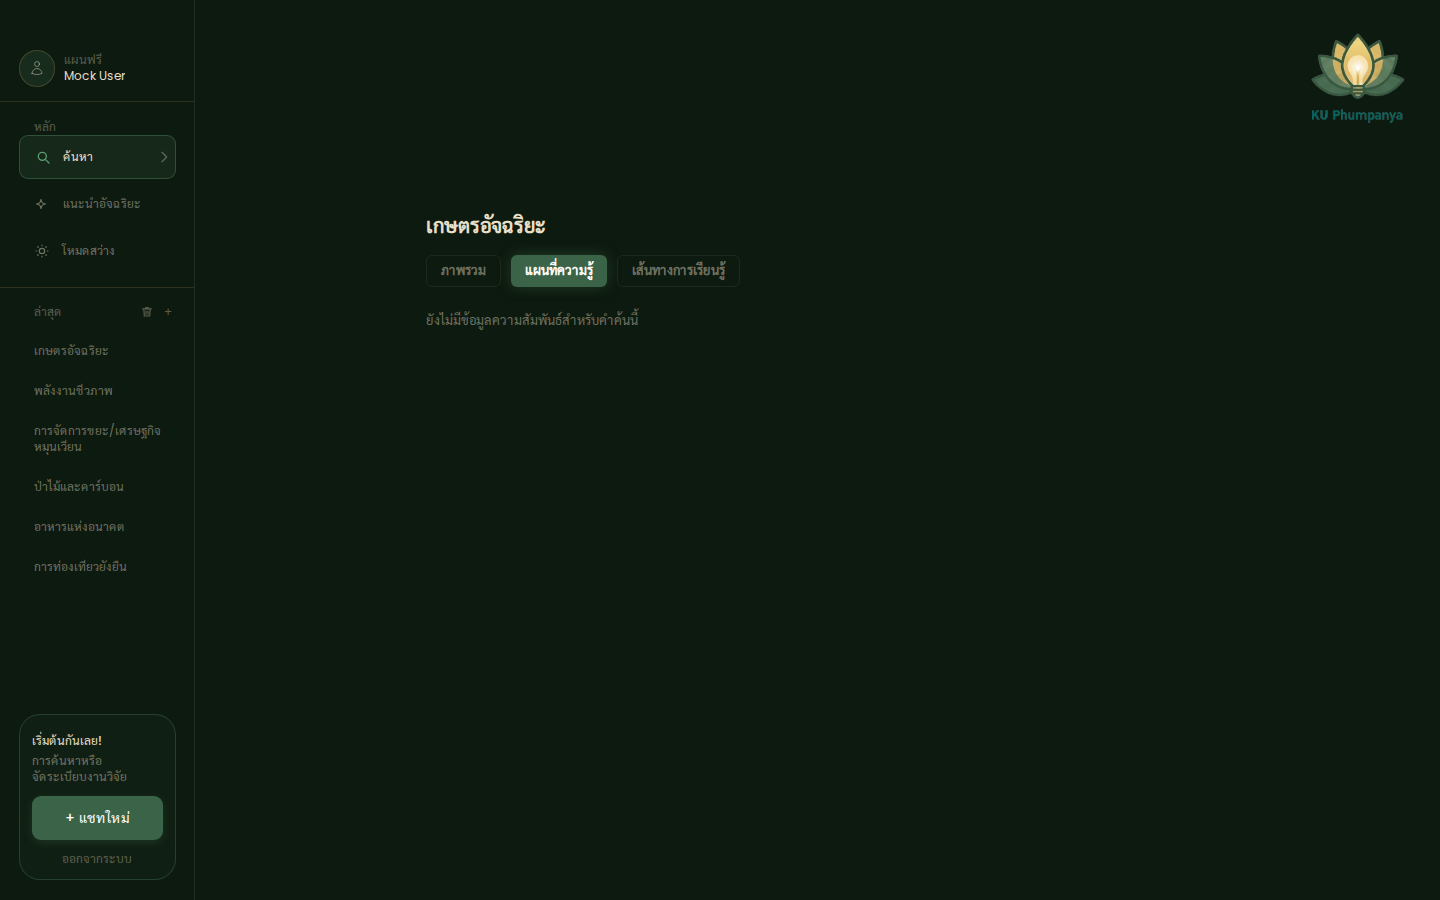
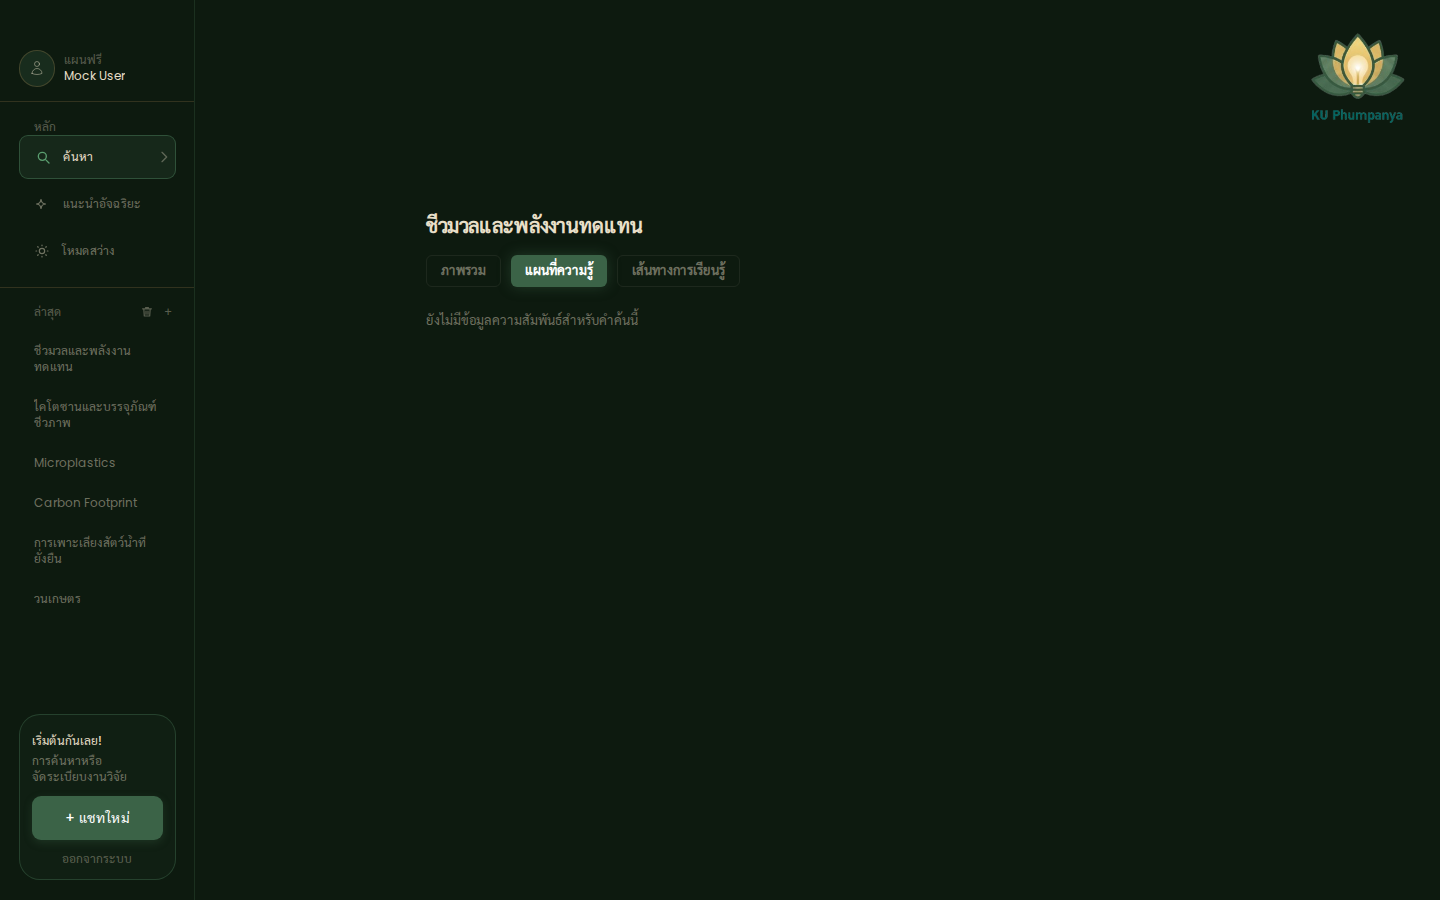
docs(gates): re-shoot 1.4.1-2 mock screenshots with the gate 1.1.1 topic names

Changed region(s): [[0.0, 0.3733, 0.125, 0.6844], [0.2812, 0.2178, 0.4375, 0.28]]

diff --git a/docs/gates/1.4.1-2/README.md b/docs/gates/1.4.1-2/README.md
@@ -5,7 +5,7 @@ not from the live backend. They show layout and behaviour only; they are not evi
 API returns BCG pillar / faculty nodes or three evidence sources for the six topics. Re-shoot against
 the deployed site once Phase F3 lands (`E2E_BASE_URL`).
 
-- `t1`–`t6`: the six topics × overview / map / path (`t1-map-filtered`, `t1-map-expanded`: filter and expand buttons)
+- `t1`–`t6`: the six gate 1.1.1 topics (ชีวมวลและพลังงานทดแทน … วนเกษตร, in acceptance-PDF order) × overview / map / path (`t1-map-filtered`, `t1-map-expanded`: filter and expand buttons)
 - `old`: result with no `evidence`, no `overview`, empty graph (older stored row) — renders empty states, no crash
 - `badurl`: first evidence item has a `javascript:` URL — card renders, no link
 - Console errors across all runs: 0. Horizontal scroll at 1440×900: none.
